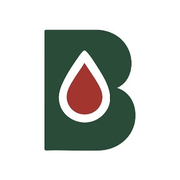
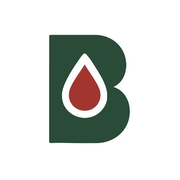
Add files via upload

Changed region(s): [[0.2222, 0.1389, 0.7778, 0.8611], [0.3056, 0.2778, 0.6111, 0.6944]]

diff --git a/app.js b/app.js
@@ -23,25 +23,17 @@ const HOME_CATEGORIES = [
 
 let view='home';
 let selected=JSON.parse(localStorage.getItem('biocare_cart')||'[]');
-let session=JSON.parse(localStorage.getItem('biocare_session')||'null');
-let family=JSON.parse(localStorage.getItem('biocare_family')||'[]');
-let bookings=JSON.parse(localStorage.getItem('biocare_bookings')||'[]');
-let consults=JSON.parse(localStorage.getItem('biocare_consults')||'[]');
-let refills=JSON.parse(localStorage.getItem('biocare_refills')||'[]');
 
-if(!bookings.length) bookings=[{id:'B-2041',name:'عميل تجريبي',branch:BRANCHES[0],date:'2026-10-15',time:'18:00',status:'قادم'}];
-if(!consults.length) consults=[{id:'C-109',doctor:'د. سليم الاستشاري',date:'2026-10-16',time:'20:00',status:'مؤكد'}];
-
-const RESULTS=[
-  {id:'R-1001',title:'نتيجة تجريبية معتمدة',date:'2026-10-01',status:'معتمدة'},
-  {id:'R-1002',title:'نتيجة قيد الاعتماد',date:'2026-10-09',status:'قيد الاعتماد'}
-];
-const PRESCRIPTIONS=[
-  {id:'RX-9001',doctor:'د. سليم الاستشاري',date:'2026-10-01',status:'سارية',items:[
-    ['دواء تجريبي A','قرص مرة يوميًا','5 أيام'],
-    ['دواء تجريبي B','عند الحاجة','3 أيام']
-  ]}
-];
+// إزالة بيانات الاختبار المحلية القديمة مرة واحدة عند الانتقال للنسخة الإنتاجية الآمنة.
+if(localStorage.getItem('biocare_prod_cleanup_v7')!=='1'){
+  ['biocare_session','biocare_family','biocare_bookings','biocare_consults','biocare_refills'].forEach(k=>localStorage.removeItem(k));
+  localStorage.setItem('biocare_prod_cleanup_v7','1');
+}
+let session=null;
+let family=[];
+let bookings=[];
+let consults=[];
+let refills=[];
 
 const app=document.getElementById('app');
 const modal=document.getElementById('modal');
@@ -50,6 +42,11 @@ const modalBody=document.getElementById('modalBody');
 const esc=s=>String(s??'').replace(/[&<>"']/g,c=>({'&':'&amp;','<':'&lt;','>':'&gt;','"':'&quot;',"'":'&#39;'}[c]));
 const xml=s=>String(s??'').replace(/[&<>"']/g,c=>({'&':'&amp;','<':'&lt;','>':'&gt;','"':'&quot;',"'":'&apos;'}[c]));
 const fmtPrice=v=>Number.isFinite(Number(v))?`${Number(v).toLocaleString('ar-SA')} ر.س`:'السعر عند الطلب';
+const displayPackageCategory=c=>/^(profile|profiles)$/i.test(String(c||'').trim())?'باقات الفحوصات':String(c||'');
+const WHATSAPP_NUMBER='966567669779';
+const openWhatsApp=message=>window.open('https://wa.me/'+WHATSAPP_NUMBER+'?text='+encodeURIComponent(message),'_blank','noopener');
+window.openInstantChat=()=>openWhatsApp('السلام عليكم، أرغب في التحدث مع خدمة عملاء مختبرات بيوكير الطبية.');
+
 
 function save(){
   localStorage.setItem('biocare_session',JSON.stringify(session));
@@ -175,16 +172,16 @@ function home(){
    <div class="hero-copy">
      <span class="eyebrow">BIOCARE MEDICAL LABORATORIES</span>
      <h1>صحتك تستحق الاطمئنان</h1>
-     <p>استعرض التحاليل والباقات، احجز موعدك، وتابع النتائج والاستشارات من مكان واحد.</p>
+     <p>استعرض التحاليل والباقات والأسعار، وتعرّف على فروع مختبرات بيوكير الطبية وخدماتها.</p>
      <div class="hero-actions"><button class="primary" onclick="go('tests')">استعرض التحاليل</button><button class="ghost" onclick="go('packages')">استعرض الباقات</button></div>
    </div>
  </section>
  <section class="section"><div class="section-head"><button class="viewall" onclick="go('tests')">عرض الكل ‹</button><h2 class="under">التحاليل</h2></div>${categoryGrid()}</section>
  <section class="section"><div class="section-head"><button class="viewall" onclick="go('packages')">عرض الكل ‹</button><h2>الباقات</h2></div>${featuredPackages()}</section>
  <section class="section"><div class="section-head"><button class="viewall" onclick="showBranches()">عرض الكل ‹</button><h2>فروعنا</h2></div>${branches()}</section>
- <section class="section"><div class="section-head"><button class="viewall" onclick="showConsultations()">عرض الكل ‹</button><h2>الاستشارات الطبية</h2></div><div class="cards">
- <div class="card"><span class="chip">جديد</span><h3>استشارة طبية</h3><p class="muted">احجز موعدًا تجريبيًا مع الطبيب، واطلع على المحادثة والوصفة بعد الاستشارة.</p><button class="secondary" onclick="bookConsultation()">احجز استشارة</button></div>
- <div class="card"><span class="chip">وصفة</span><h3>الوصفات الطبية</h3><p class="muted">عرض وصفات تجريبية وطلب إعادة صرف وصفة.</p><button class="secondary" onclick="showPrescriptions()">عرض الوصفات</button></div></div></section>`;
+ <section class="section"><div class="section-head"><button class="viewall" onclick="showConsultations()">تواصل ‹</button><h2>الاستشارات الطبية</h2></div><div class="cards">
+ <div class="card"><span class="chip">واتساب</span><h3>استشارة طبية</h3><p class="muted">يمكن التواصل لطلب الاستشارة، ويتم الرد عادة خلال 24–72 ساعة.</p><button class="secondary" onclick="showConsultations()">تواصل للاستشارة</button></div>
+ </div></section>`;
 }
 
 function tests(){
@@ -224,7 +221,7 @@ function packageCard(p){
  return `<article class="package-card compact-package" style="--pack-bg:${bg};--pack-accent:${accent}">
    <button class="package-icon-wrap" onclick="showPackage('${p.id}')" aria-label="${esc(p.name)}">${packageIcon(p)}</button>
    <div class="package-card-body">
-     <span class="chip">${esc(p.category)}</span>
+     <span class="chip">${esc(displayPackageCategory(p.category))}</span>
      <h3>${esc(p.name)}</h3>
      <div class="package-meta"><span>${typeof p.count==='number'?`${p.count} تحليل`:esc(p.count)}</span><span>${fast?'لا يتطلب صيام':'يتطلب صيام'}</span></div>
      <div class="package-footer"><span class="package-price">${fmtPrice(p.price)}</span><button class="package-details-btn" onclick="showPackage('${p.id}')">عرض التفاصيل <span>‹</span></button></div>
@@ -236,7 +233,7 @@ function packagesView(){
  <div class="section-head"><h2 class="under">الباقات</h2><span class="count-badge">${PACKAGES.length} باقة</span></div>
  <div class="catalog-tools package-search-tools">
    <input id="packageSearch" placeholder="ابحث عن الباقات أو التحاليل..." oninput="renderPackageList()">
-   <select id="packageCategory" onchange="renderPackageList()"><option value="">كل الفئات</option>${(CATALOG.packageCategories||[]).map(c=>`<option>${esc(c)}</option>`).join('')}</select>
+   <select id="packageCategory" onchange="renderPackageList()"><option value="">كل الفئات</option>${(CATALOG.packageCategories||[]).map(c=>`<option value="${esc(c)}">${esc(displayPackageCategory(c))}</option>`).join('')}</select>
  </div>
  <div class="quick-filters" role="group" aria-label="تصفية سريعة">
    <button class="quick-filter active" data-filter="all" onclick="setPackageFilter('all')">الكل</button>
@@ -263,7 +260,7 @@ window.showPackage=id=>{
  const p=PACKAGES.find(x=>x.id===id); if(!p) return;
  const comps=p.components||[];
  openModal(`<div class="package-detail">
-   <div class="package-detail-visual" style="--pack-bg:${themeForCategory(p.category)[0]};--pack-accent:${themeForCategory(p.category)[1]}"><span class="detail-package-icon">${packageIcon(p)}</span><div><span class="chip">${esc(p.category)}</span><h2>${esc(p.name)}</h2></div></div>
+   <div class="package-detail-visual" style="--pack-bg:${themeForCategory(p.category)[0]};--pack-accent:${themeForCategory(p.category)[1]}"><span class="detail-package-icon">${packageIcon(p)}</span><div><span class="chip">${esc(displayPackageCategory(p.category))}</span><h2>${esc(p.name)}</h2></div></div>
    <div class="detail-head"><span class="detail-price">${fmtPrice(p.price)}</span></div>
    ${p.description?`<p class="muted">${esc(p.description)}</p>`:''}
    <div class="detail-facts"><div><b>${typeof p.count==='number'?p.count:esc(p.count)}</b><span>عدد التحاليل/الأنواع</span></div><div><b>${esc(p.fasting)}</b><span>الصيام</span></div></div>
@@ -276,44 +273,31 @@ window.showPackage=id=>{
 
 function booking(){
  const priced=selected.filter(x=>Number.isFinite(Number(x.price)));
- const total=priced.reduce((s,x)=>s+Number(x.price),0);
+ const total=priced.reduce((sum,x)=>sum+Number(x.price),0);
  const pending=selected.length-priced.length;
- return `<section class="section"><div class="section-head"><h2 class="under">الحجز والسلة</h2><span class="count-badge">${selected.length} عنصر</span></div>
- <div class="notice">هذه النسخة الحالية واجهة تجريبية. لا تدخل بيانات مرضى حقيقية حتى يتم تفعيل الـBackend الآمن وربط أنظمة المختبر.</div>
+ return `<section class="section"><div class="section-head"><h2 class="under">السلة</h2><span class="count-badge">${selected.length} عنصر</span></div>
  <div class="card"><h3>اختياراتك</h3>
  ${selected.length?`<div class="cart-list">${selected.map((x,i)=>`<div class="cart-row"><div><strong>${esc(x.name)}</strong><div class="muted">${x.type==='package'?'باقة':'تحليل'} — ${Number.isFinite(Number(x.price))?fmtPrice(x.price):'السعر عند الطلب'}</div></div><button onclick="removeCart(${i})" class="remove-btn">حذف</button></div>`).join('')}</div>`:'<p class="muted">لم تتم إضافة تحاليل أو باقات بعد.</p>'}
  <div class="cart-total"><span>الإجمالي المعروف</span><strong>${fmtPrice(total)}</strong></div>
- ${pending?`<p class="micro-note">يوجد ${pending} تحليل/عنصر يحتاج تأكيد السعر من المختبر قبل الدفع.</p>`:''}
+ ${pending?`<p class="micro-note">يوجد ${pending} تحليل/عنصر يحتاج تأكيد السعر من المختبر.</p>`:''}
  <p class="micro-note">تضاف ضريبة القيمة المضافة للمقيمين.</p>
- <form id="bookingForm"><label>لمن الحجز؟</label><select name="name"><option>${session?esc(session.name):'عميل تجريبي'}</option>${family.map(f=>`<option>${esc(f.name)}</option>`).join('')}</select>
- <label>الفرع</label><select name="branch">${BRANCHES.map(b=>`<option>${esc(b)}</option>`).join('')}</select>
- <label>التاريخ</label><input type="date" name="date" required>
- <label>الوقت</label><select name="time"><option>09:00</option><option>12:00</option><option>16:00</option><option>19:00</option><option>21:00</option></select><br>
- <button class="primary">تسجيل حجز تجريبي</button></form><div id="bookDone"></div></div>
- <div style="margin-top:13px"><button class="ghost" onclick="showAppointments()">مواعيدي وإعادة الجدولة</button></div></section>`;
+ ${selected.length?'<button class="primary" onclick="sendCartWhatsApp()">إرسال الاختيارات عبر واتساب</button>':''}
+ </div></section>`;
 }
 function results(){
- return `<section class="section"><div class="section-head"><h2 class="under">النتائج</h2></div><div class="notice">لا توجد نتائج مرضى حقيقية في هذه النسخة.</div><div class="list">${RESULTS.map(r=>`<div class="card"><div class="row"><div><h3>${r.title}</h3><div class="muted">${r.date}</div></div><span class="chip">${r.status}</span></div><button class="secondary" onclick="openResult('${r.id}')">عرض التقرير</button></div>`).join('')}</div></section>`;
+ return `<section class="section"><div class="section-head"><h2 class="under">النتائج</h2></div>
+ <div class="card"><h3>النتائج الإلكترونية</h3><p class="muted">سيتم تفعيل الدخول الآمن للنتائج بعد اكتمال الربط مع نظام المختبر. لا يتم عرض أي نتائج تجريبية في النسخة الحالية.</p></div></section>`;
 }
 function profile(){
- return `<section class="section"><div class="section-head"><h2 class="under">حسابي</h2></div>${session?`<div class="card"><h3>${esc(session.name)}</h3><p class="muted">${esc(session.phone||'')}</p><div class="button-wrap"><button class="ghost" onclick="showFamily()">أفراد العائلة</button><button class="ghost" onclick="showAppointments()">مواعيدي</button><button class="ghost" onclick="showConsultations()">استشاراتي</button></div></div>`:`<div class="card"><h3>تسجيل الدخول التجريبي</h3><p class="muted">رمز التحقق التجريبي: 1234</p><button class="primary" onclick="openLogin()">تسجيل الدخول</button></div>`}</section>`;
+ return `<section class="section"><div class="section-head"><h2 class="under">حسابي</h2></div>
+ <div class="card"><h3>حساب العميل</h3><p class="muted">تسجيل الدخول وإدارة أفراد العائلة والمواعيد ستُفعّل بعد ربط نظام التحقق وقاعدة البيانات الآمنة.</p></div></section>`;
 }
 function render(){
  document.querySelectorAll('.nav-item').forEach(b=>b.classList.toggle('active',b.dataset.view===view));
  if(view==='home') app.innerHTML=home();
  if(view==='tests'){app.innerHTML=tests();renderTestsList()}
  if(view==='packages'){app.innerHTML=packagesView();renderPackageList()}
- if(view==='booking'){
-   app.innerHTML=booking();
-   const form=document.getElementById('bookingForm');
-   if(form) form.onsubmit=e=>{
-     e.preventDefault(); const f=Object.fromEntries(new FormData(e.target));
-     bookings.unshift({id:'B-'+Date.now().toString().slice(-5),...f,status:'قادم',items:selected.map(x=>x.name)});
-     selected=[];save();
-     document.getElementById('bookDone').innerHTML='<div class="success" style="margin-top:12px">تم حفظ الحجز على هذا الجهاز فقط — ليس حجزًا مؤكدًا.</div>';
-     e.target.reset(); setTimeout(render,400);
-   };
- }
+ if(view==='booking') app.innerHTML=booking();
  if(view==='results') app.innerHTML=results();
  if(view==='profile') app.innerHTML=profile();
  updateCartCount();
@@ -334,32 +318,37 @@ function toast(msg){
  requestAnimationFrame(()=>t.classList.add('show'));setTimeout(()=>{t.classList.remove('show');setTimeout(()=>t.remove(),250)},1600);
 }
 window.showBranches=()=>openModal(`<h2>فروعنا</h2>${branches()}<p class="micro-note">ساعات العمل: السبت–الخميس 8 صباحًا–12 منتصف الليل، الجمعة 4 مساءً–12 منتصف الليل. فرع الداير يغلق 11 مساءً.</p>`);
-window.openLogin=()=>openModal(`<h2>تسجيل الدخول التجريبي</h2><div class="notice">استخدم الرمز 1234. لا تدخل بيانات حقيقية.</div><form id="loginForm"><label>الاسم</label><input name="name" required><label>الجوال</label><input name="phone" inputmode="numeric"><label>رمز التحقق</label><input name="otp" inputmode="numeric" required></form><br><button class="primary" onclick="submitLogin()">دخول</button>`);
-window.submitLogin=()=>{const f=Object.fromEntries(new FormData(document.getElementById('loginForm')));if(f.otp!=='1234'){alert('الرمز التجريبي 1234');return}session={name:f.name,phone:f.phone};save();closeModal();go('profile')}
-window.showFamily=()=>openModal(`<h2>أفراد العائلة</h2><div class="list">${family.map((f,i)=>`<div class="card row"><div><strong>${esc(f.name)}</strong><div class="muted">${esc(f.relation)}</div></div><button class="ghost" onclick="removeFamily(${i})">حذف</button></div>`).join('')||'<p class="muted">لا يوجد أفراد مضافون</p>'}</div><label>الاسم التجريبي</label><input id="famName"><label>صلة القرابة</label><input id="famRel"><br><button class="secondary" onclick="addFamily()">إضافة فرد</button>`)
-window.addFamily=()=>{const n=document.getElementById('famName').value.trim(),r=document.getElementById('famRel').value.trim();if(!n)return;family.push({name:n,relation:r});save();showFamily()}
-window.removeFamily=i=>{family.splice(i,1);save();showFamily()}
-window.showAppointments=()=>openModal(`<h2>مواعيدي</h2><div class="list">${bookings.map((b,i)=>`<div class="card"><div class="row"><div><strong>${esc(b.branch)}</strong><div class="muted">${esc(b.date)} — ${esc(b.time)}</div></div><span class="chip">${esc(b.status)}</span></div>${b.status==='قادم'?`<div class="button-wrap"><button class="ghost" onclick="reschedule(${i})">إعادة الجدولة</button><button class="ghost" onclick="cancelBooking(${i})">إلغاء</button></div>`:''}</div>`).join('')}</div>`)
-window.reschedule=i=>openModal(`<h2>إعادة الجدولة</h2><label>التاريخ الجديد</label><input type="date" id="newDate"><label>الوقت</label><select id="newTime"><option>09:00</option><option>12:00</option><option>16:00</option><option>19:00</option></select><br><button class="secondary" onclick="saveReschedule(${i})">حفظ</button>`)
-window.saveReschedule=i=>{const d=document.getElementById('newDate').value;if(!d)return;bookings[i].date=d;bookings[i].time=document.getElementById('newTime').value;save();showAppointments()}
-window.cancelBooking=i=>{bookings[i].status='ملغي';save();showAppointments()}
-window.openResult=id=>openModal(`<h2>تقرير نتيجة تجريبي</h2><div class="rx"><div class="rx-head"><div><div class="rx-title">${esc(id)}</div><div class="muted">تقرير عرض فقط وغير صالح للاستخدام الطبي.</div></div><span class="chip">تجريبي</span></div><table class="result-table"><tr><td>CBC</td><td>ضمن المجال المرجعي</td></tr><tr><td>TSH</td><td>2.4</td></tr></table><br><button class="secondary" onclick="window.print()">طباعة / حفظ PDF</button></div>`)
-window.showConsultations=()=>openModal(`<h2>الاستشارات الطبية</h2><div class="notice">وظائف تجريبية فقط وليست خدمة طبية فعلية.</div><div class="list">${consults.map(c=>`<div class="card"><div class="row"><div><strong>${esc(c.doctor)}</strong><div class="muted">${esc(c.date)} — ${esc(c.time)}</div></div><span class="chip">${esc(c.status)}</span></div><div class="button-wrap"><button class="ghost" onclick="openChat()">فتح المحادثة</button><button class="ghost" onclick="showPrescriptions()">الوصفات</button></div></div>`).join('')}</div><br><button class="primary" onclick="bookConsultation()">حجز استشارة جديدة</button>`)
-window.bookConsultation=()=>openModal(`<h2>حجز استشارة طبية</h2><div class="notice">الحجز تجريبي، ولا يتم إرساله إلى طبيب حقيقي.</div><label>الطبيب</label><select id="consultDoctor"><option>د. سليم الاستشاري</option><option>طبيب عام تجريبي</option></select><label>التاريخ</label><input id="consultDate" type="date"><label>الوقت</label><select id="consultTime"><option>18:00</option><option>20:00</option><option>22:00</option></select><br><button class="primary" onclick="saveConsultation()">حفظ الموعد التجريبي</button>`)
-window.saveConsultation=()=>{const d=document.getElementById('consultDate').value;if(!d)return;consults.unshift({id:'C-'+Date.now().toString().slice(-5),doctor:document.getElementById('consultDoctor').value,date:d,time:document.getElementById('consultTime').value,status:'مؤكد'});save();showConsultations()}
-window.openChat=()=>openModal(`<h2>محادثتي</h2><div class="notice">محادثة تجريبية غير مرتبطة بطبيب حقيقي.</div><div class="chat-bubble doctor"><strong>الطبيب:</strong><br>أهلًا، كيف يمكنني مساعدتك اليوم؟</div><div class="chat-bubble">هذه رسالة تجريبية من العميل.</div><label>رسالة جديدة</label><textarea rows="3" placeholder="اكتب رسالة تجريبية..."></textarea><br><button class="secondary" onclick="alert('تم الإرسال محليًا للتجربة فقط')">إرسال</button>`)
-window.showPrescriptions=()=>openModal(`<h2>الوصفات الطبية</h2><div class="notice">الوصفات المعروضة تجريبية وغير صالحة للصرف.</div><div class="list">${PRESCRIPTIONS.map(rx=>`<div class="rx"><div class="rx-head"><div><div class="rx-title">وصفة ${rx.id}</div><div class="muted">${rx.doctor} — ${rx.date}</div></div><span class="chip">${rx.status}</span></div>${rx.items.map(x=>`<p><strong>${esc(x[0])}</strong><br><span class="muted">${esc(x[1])} — ${esc(x[2])}</span></p>`).join('')}<div class="row"><button class="ghost" onclick="window.print()">حفظ PDF</button><button class="secondary" onclick="requestRefill('${rx.id}')">طلب إعادة صرف</button></div></div>`).join('')}</div>`)
-window.requestRefill=id=>{refills.unshift({id:'RF-'+Date.now().toString().slice(-5),rx:id,date:new Date().toISOString().slice(0,10),status:'قيد المراجعة'});save();openModal(`<h2>إعادة صرف وصفة</h2><div class="success">تم إنشاء طلب تجريبي للوصفة ${esc(id)}. الحالة: قيد المراجعة.</div>`)}
-window.showRefills=()=>openModal(`<h2>طلبات إعادة صرف الوصفة</h2><div class="list">${refills.map(r=>`<div class="card"><strong>${esc(r.rx)}</strong><div class="muted">${esc(r.date)}</div><span class="chip">${esc(r.status)}</span></div>`).join('')||'<p class="muted">لا توجد طلبات</p>'}</div>`)
+window.sendCartWhatsApp=()=>{
+ const lines=selected.map((x,i)=>`${i+1}. ${x.name}${Number.isFinite(Number(x.price))?' - '+fmtPrice(x.price):' - السعر عند الطلب'}`);
+ const msg=['السلام عليكم، أرغب بالاستفسار عن التحاليل/الباقات التالية:',...lines,'','يرجى تأكيد السعر والمتطلبات قبل الزيارة.'].join('\n');
+ openWhatsApp(msg);
+};
+window.openLogin=()=>openModal(`<h2>حساب العميل</h2><div class="notice">تسجيل الدخول الآمن قيد الربط حاليًا، ولن يطلب التطبيق بيانات شخصية حتى يتم تفعيل التحقق الآمن.</div>`);
+window.submitLogin=()=>{};
+window.showFamily=()=>openModal(`<h2>أفراد العائلة</h2><div class="notice">هذه الخدمة ستتوفر بعد تفعيل حساب العميل الآمن.</div>`);
+window.addFamily=()=>{};
+window.removeFamily=()=>{};
+window.showAppointments=()=>openModal(`<h2>مواعيدي</h2><div class="notice">إدارة المواعيد الإلكترونية ستتوفر بعد ربط نظام الحجز.</div>`);
+window.reschedule=()=>{};
+window.saveReschedule=()=>{};
+window.cancelBooking=()=>{};
+window.openResult=()=>openModal(`<h2>النتائج</h2><div class="notice">سيتم تفعيل عرض النتائج بعد الربط الآمن مع نظام المختبر.</div>`);
+window.showConsultations=()=>openModal(`<h2>الاستشارات الطبية</h2><div class="card"><p class="muted">لطلب استشارة، تواصل عبر واتساب. يتم الرد عادة خلال 24–72 ساعة.</p><button class="primary" onclick="openWhatsApp('السلام عليكم، أرغب بطلب استشارة طبية من مختبرات بيوكير الطبية.')">تواصل عبر واتساب</button></div>`);
+window.bookConsultation=()=>showConsultations();
+window.saveConsultation=()=>{};
+window.openChat=()=>showConsultations();
+window.showPrescriptions=()=>openModal(`<h2>الوصفات الطبية</h2><div class="notice">لا يعرض التطبيق وصفات تجريبية. سيتم تفعيل الوصفات عند توفر نظام طبي معتمد ومربوط بشكل آمن.</div>`);
+window.requestRefill=()=>{};
+window.showRefills=()=>openModal(`<h2>طلبات إعادة صرف الوصفة</h2><div class="notice">الخدمة غير مفعلة حاليًا.</div>`);
 window.showOffers=()=>{view='packages';render();setTimeout(()=>{const s=document.getElementById('packageSearch');if(s)s.focus()},0);closeDrawer()}
-window.showNotifications=()=>openModal(`<h2>الإشعارات</h2><div class="card"><strong>مرحبًا بك في بيوكير</strong><p class="muted">هذه إشعارات تجريبية داخل التطبيق.</p></div>`)
-window.showSupport=()=>openModal(`<h2>المساعدة والخصوصية</h2><div class="card"><h3>الدعم والتواصل</h3><p class="muted">الاستشارات عبر واتساب متاحة للرد خلال 24–72 ساعة. سياسة الخصوصية والتواصل الفعلي تفعّل عند إطلاق النسخة الإنتاجية.</p></div>`)
-window.showAbout=()=>openModal(`<h2>حول التطبيق</h2><p class="muted">Biocare Medical Laboratories — واجهة PWA تجريبية لمختبرات بيوكير الطبية.</p>`)
-window.showTestimonials=()=>openModal(`<h2>شهادات العملاء</h2><div class="card"><strong>★★★★★</strong><p class="muted">شهادة تجريبية لأغراض تصميم الواجهة فقط.</p></div>`)
+window.showNotifications=()=>openModal(`<h2>الإشعارات</h2><div class="card"><p class="muted">لا توجد إشعارات جديدة.</p></div>`)
+window.showSupport=()=>openModal(`<h2>المساعدة والخصوصية</h2><div class="card"><h3>الدعم والتواصل</h3><p class="muted">للدعم والاستشارات يمكن التواصل عبر واتساب. يتم الرد عادة خلال 24–72 ساعة.</p><button class="secondary" onclick="openWhatsApp('السلام عليكم، أرغب بالتواصل مع مختبرات بيوكير الطبية.')">تواصل عبر واتساب</button></div>`)
+window.showAbout=()=>openModal(`<h2>حول التطبيق</h2><p class="muted">Biocare Medical Laboratories — تطبيق مختبرات بيوكير الطبية لاستعراض التحاليل والباقات والخدمات.</p>`)
+window.showTestimonials=()=>openModal(`<h2>شهادات العملاء</h2><div class="card"><p class="muted">سيتم عرض تقييمات العملاء المعتمدة هنا.</p></div>`)
 window.showJobs=()=>openModal(`<h2>وظائف</h2><p class="muted">سيتم عرض الوظائف المتاحة هنا عند ربط لوحة الإدارة.</p>`)
-window.showBlogs=()=>openModal(`<h2>المدونات</h2><div class="card"><h3>كيف تستعد للتحليل؟</h3><p class="muted">مقال تجريبي قصير.</p></div>`)
-window.logout=()=>{session=null;save();closeDrawer();go('home')}
-window.setLanguage=()=>openModal(`<h2>اللغة</h2><div class="card"><strong>العربية</strong><p class="muted">اللغة الافتراضية الحالية.</p></div><div class="card"><strong>English</strong><p class="muted">قيد التجهيز للنسخة الإنتاجية.</p></div>`)
+window.showBlogs=()=>openModal(`<h2>المدونات</h2><div class="card"><p class="muted">سيتم نشر المحتوى التوعوي المعتمد هنا.</p></div>`)
+window.logout=()=>{closeDrawer();go('home')}
+window.setLanguage=()=>openModal(`<h2>اللغة</h2><div class="card"><strong>العربية</strong><p class="muted">اللغة الافتراضية الحالية.</p></div><div class="card"><strong>English</strong><p class="muted">قيد التجهيز.</p></div>`)
 window.appPreferences=()=>openModal(`<h2>تفضيل التطبيق</h2><p class="muted">إعدادات الإشعارات والمظهر وحجم الخط ستظهر هنا.</p>`)
 
 const menuGroups=[

diff --git a/index.html b/index.html
@@ -27,6 +27,12 @@
 
 <main id="app"></main>
 
+<button class="instant-chat-btn" type="button" onclick="openInstantChat()" aria-label="المحادثة الفورية" title="المحادثة الفورية">
+  <span class="instant-chat-dot" aria-hidden="true"></span>
+  <svg viewBox="0 0 24 24" aria-hidden="true"><path d="M20 11.5a8 8 0 0 1-8.4 8A9.6 9.6 0 0 1 8 18.7L4 20l1.3-3.5A8 8 0 1 1 20 11.5Z" fill="none" stroke="currentColor" stroke-width="2" stroke-linecap="round" stroke-linejoin="round"/><path d="M8.5 11.7h7M8.5 8.7h5" fill="none" stroke="currentColor" stroke-width="2" stroke-linecap="round"/></svg>
+  <span class="instant-chat-label">محادثة فورية</span>
+</button>
+
 <nav class="bottom-nav" aria-label="التنقل الرئيسي">
   <button data-view="home" class="nav-item active"><span><svg class="nav-svg" viewBox="0 0 24 24" fill="none" stroke="currentColor" stroke-width="2"><path d="M3 11 12 3l9 8v9H5v-9"/><path d="M9 20v-6h6v6"/></svg></span><b>الرئيسية</b></button>
   <button data-view="packages" class="nav-item"><span><svg class="nav-svg" viewBox="0 0 24 24" fill="none" stroke="currentColor" stroke-width="2"><path d="M4 7h16v13H4z"/><path d="M8 7V4h8v3M4 11h16"/></svg></span><b>الباقات</b></button>
@@ -51,9 +57,9 @@
  </div>
 </div>
 
-<script src="catalog.js?v=6"></script>
+<script src="catalog.js?v=8"></script>
 <script>
-window.BIOCARE_CATALOG_READY.then(()=>{const s=document.createElement("script");s.src="app.js?v=6";document.body.appendChild(s)}).catch(e=>{console.error(e);document.getElementById("app").innerHTML="<div style=\"padding:24px\">تعذر تحميل بيانات التطبيق. حدّث الصفحة.</div>"});
+window.BIOCARE_CATALOG_READY.then(()=>{const s=document.createElement("script");s.src="app.js?v=8";document.body.appendChild(s)}).catch(e=>{console.error(e);document.getElementById("app").innerHTML="<div style=\"padding:24px\">تعذر تحميل بيانات التطبيق. حدّث الصفحة.</div>"});
 </script>
 <script>
 if('serviceWorker' in navigator){window.addEventListener('load',()=>navigator.serviceWorker.register('./sw.js').catch(()=>{}))}

diff --git a/admin.js b/admin.js
@@ -1,2 +1,8 @@
-const bookings=JSON.parse(localStorage.getItem('biocare_bookings')||'[]'), consults=JSON.parse(localStorage.getItem('biocare_consults')||'[]'), refills=JSON.parse(localStorage.getItem('biocare_refills')||'[]');
-document.getElementById('admin').innerHTML=`<div class="kpis"><div class="kpi"><strong>${bookings.length}</strong>حجوزات</div><div class="kpi"><strong>${consults.length}</strong>استشارات</div><div class="kpi"><strong>${refills.length}</strong>طلبات إعادة صرف</div></div><section class="section"><div class="section-head"><h2>الحجوزات المحلية</h2></div><div class="list">${bookings.map(b=>`<div class="card"><strong>${b.branch||''}</strong><div class="muted">${b.date||''} — ${b.time||''}</div></div>`).join('')||'لا توجد حجوزات'}</div></section>`;
+document.getElementById('admin').innerHTML=`
+<section class="section">
+  <div class="section-head"><h2>لوحة الإدارة</h2></div>
+  <div class="card">
+    <h3>غير مفعلة على الموقع العام</h3>
+    <p class="muted">تم إيقاف لوحة البيانات المحلية التجريبية. ستتوفر لوحة الإدارة بعد ربط نظام دخول آمن وقاعدة بيانات خلفية.</p>
+  </div>
+</section>`;

diff --git a/styles.css b/styles.css
@@ -244,3 +244,12 @@ body{background:#fff}
  .compact-package h3{font-size:16px}
  .package-price{font-size:19px}.package-details-btn{font-size:11px}
 }
+
+
+/* --- Biocare V8 floating instant chat --- */
+.instant-chat-btn{position:fixed;left:18px;bottom:calc(100px + env(safe-area-inset-bottom));z-index:115;border:0;background:#24553f;color:#fff;height:54px;min-width:54px;border-radius:999px;padding:0 15px;display:flex;align-items:center;gap:9px;box-shadow:0 10px 28px rgba(25,70,52,.28);font-family:inherit;font-weight:800;cursor:pointer}
+.instant-chat-btn svg{width:26px;height:26px;flex:0 0 auto}
+.instant-chat-label{font-size:13px;white-space:nowrap}
+.instant-chat-dot{position:absolute;top:2px;right:3px;width:11px;height:11px;border-radius:50%;background:#c73535;border:2px solid #fff}
+.instant-chat-btn:active{transform:scale(.97)}
+@media(max-width:430px){.instant-chat-btn{width:56px;min-width:56px;height:56px;padding:0;justify-content:center}.instant-chat-label{display:none}.instant-chat-btn svg{width:28px;height:28px}}

diff --git a/sw.js b/sw.js
@@ -1,4 +1,4 @@
-const CACHE='biocare-v6-prices-20261012';
+const CACHE='biocare-v8-logo-livechat-20261012';
 const ASSETS=['./','./index.html','./styles.css','./catalog.js','./app.js','./admin.html','./admin.js','./manifest.webmanifest','./logo-full.png','./icon-192.png','./icon-512.png','./apple-touch-icon.png'];
 self.addEventListener('install',e=>e.waitUntil(caches.open(CACHE).then(c=>c.addAll(ASSETS)).then(()=>self.skipWaiting())));
 self.addEventListener('activate',e=>e.waitUntil(caches.keys().then(ks=>Promise.all(ks.filter(k=>k!==CACHE).map(k=>caches.delete(k)))).then(()=>self.clients.claim())));

diff --git a/README.md b/README.md
@@ -23,3 +23,17 @@
 
 
 V6: تحديث أسعار التحاليل من الملف المرفق (509 صف إنجليزي + 148 صف عربي)، الباقات 100 مطابقة. الأسعار القديمة للتحاليل غير المذكورة في الملف بقيت كما كانت ويجب مراجعتها قبل اعتمادها تجارياً. لا توجد وظائف مرضى حقيقية أو LIS.
+
+
+## V7 Production-safe
+- Removed demo patient login, demo results, demo bookings, demo chat and demo prescriptions from the public flow.
+- Cleans previously saved local demo patient data once.
+- Keeps test/package catalog and prices.
+- Adds WhatsApp handoff for selected tests/packages and consultations.
+- Normalizes Profile/Profiles labels to Arabic in the UI.
+- Public admin demo data view disabled until secure backend/authentication is connected.
+
+
+## V8
+- App icon changed to the official Biocare B/drop logo.
+- Added floating instant-chat button linked to WhatsApp +966 56 766 9779.
